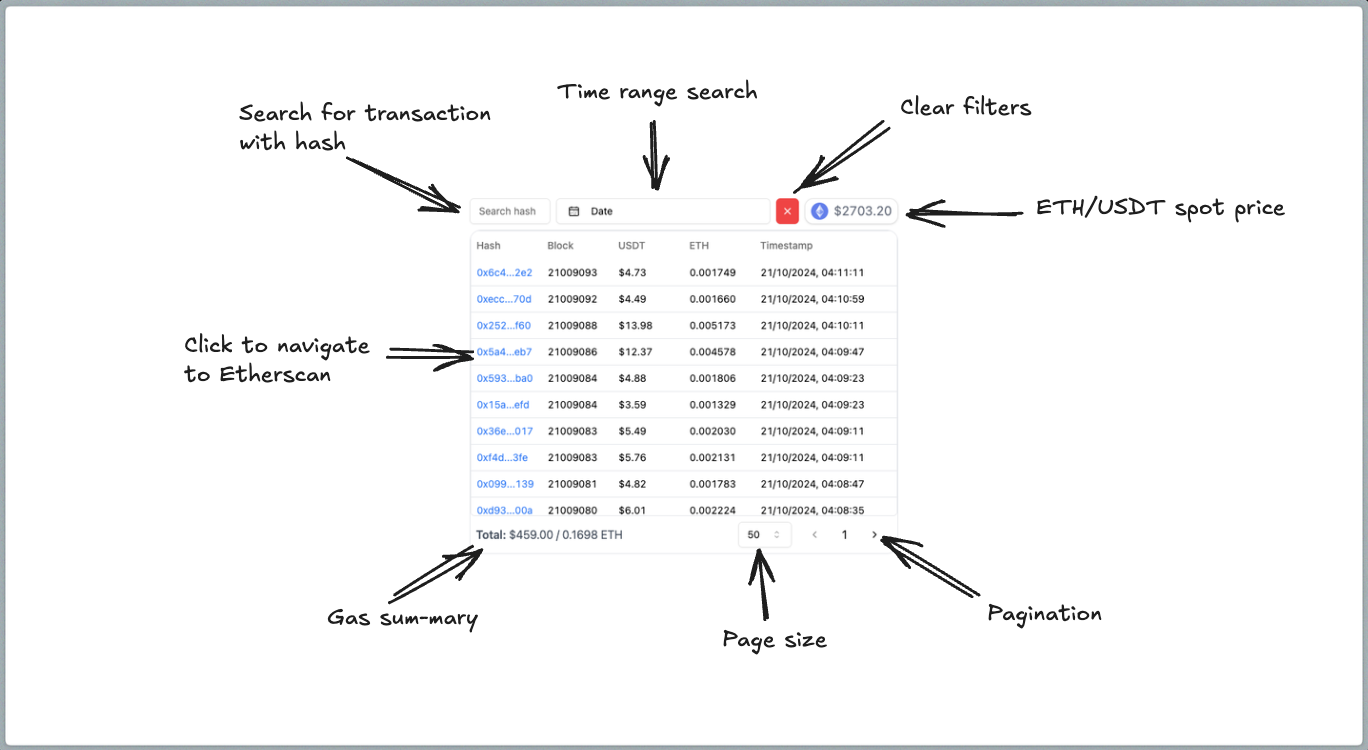
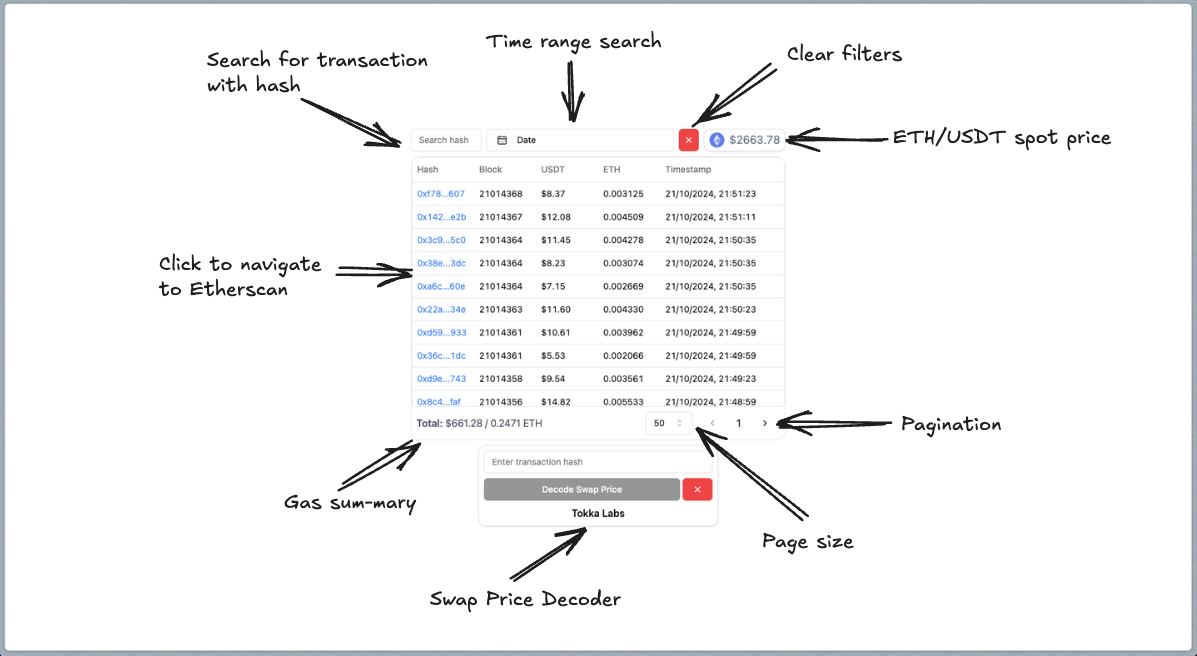
Update design, readme and swagger

diff --git a/README.md b/README.md
@@ -67,7 +67,7 @@ The architecture consists of:
 - SQLite3 databases for each instance for data persistence.
 
 ### Frontend Design
-![img_2.png](design.png)
+![img.png](design.png)
 
 ## Availability, Scalability, and Reliability
 
@@ -120,7 +120,7 @@ In this project, we're using Bun as it is a fast all-in-one JavaScript toolkit. 
 
 ### Environment Setup
 
-You will need an API key from Etherscan, sign up for one [here](https://etherscan.io/apis). The free tier is generous enough as it offers 100,000 free API calls per day.
+You will need an API key from [Etherscan](https://etherscan.io/apis) and [Infura](https://app.infura.io/).
 
 ### Local Setup
 
@@ -130,7 +130,7 @@ You will need an API key from Etherscan, sign up for one [here](https://ethersca
    cd tokka-labs
    ```
    
-2. Navigate to the backend directory, copy the `.env.example` file to a new file named `.env`, and fill in the API key for Etherscan.
+2. Navigate to the backend directory, copy the `.env.example` file to a new file named `.env`, and fill in the API keys.
 
 3. Install dependencies:
    ```
